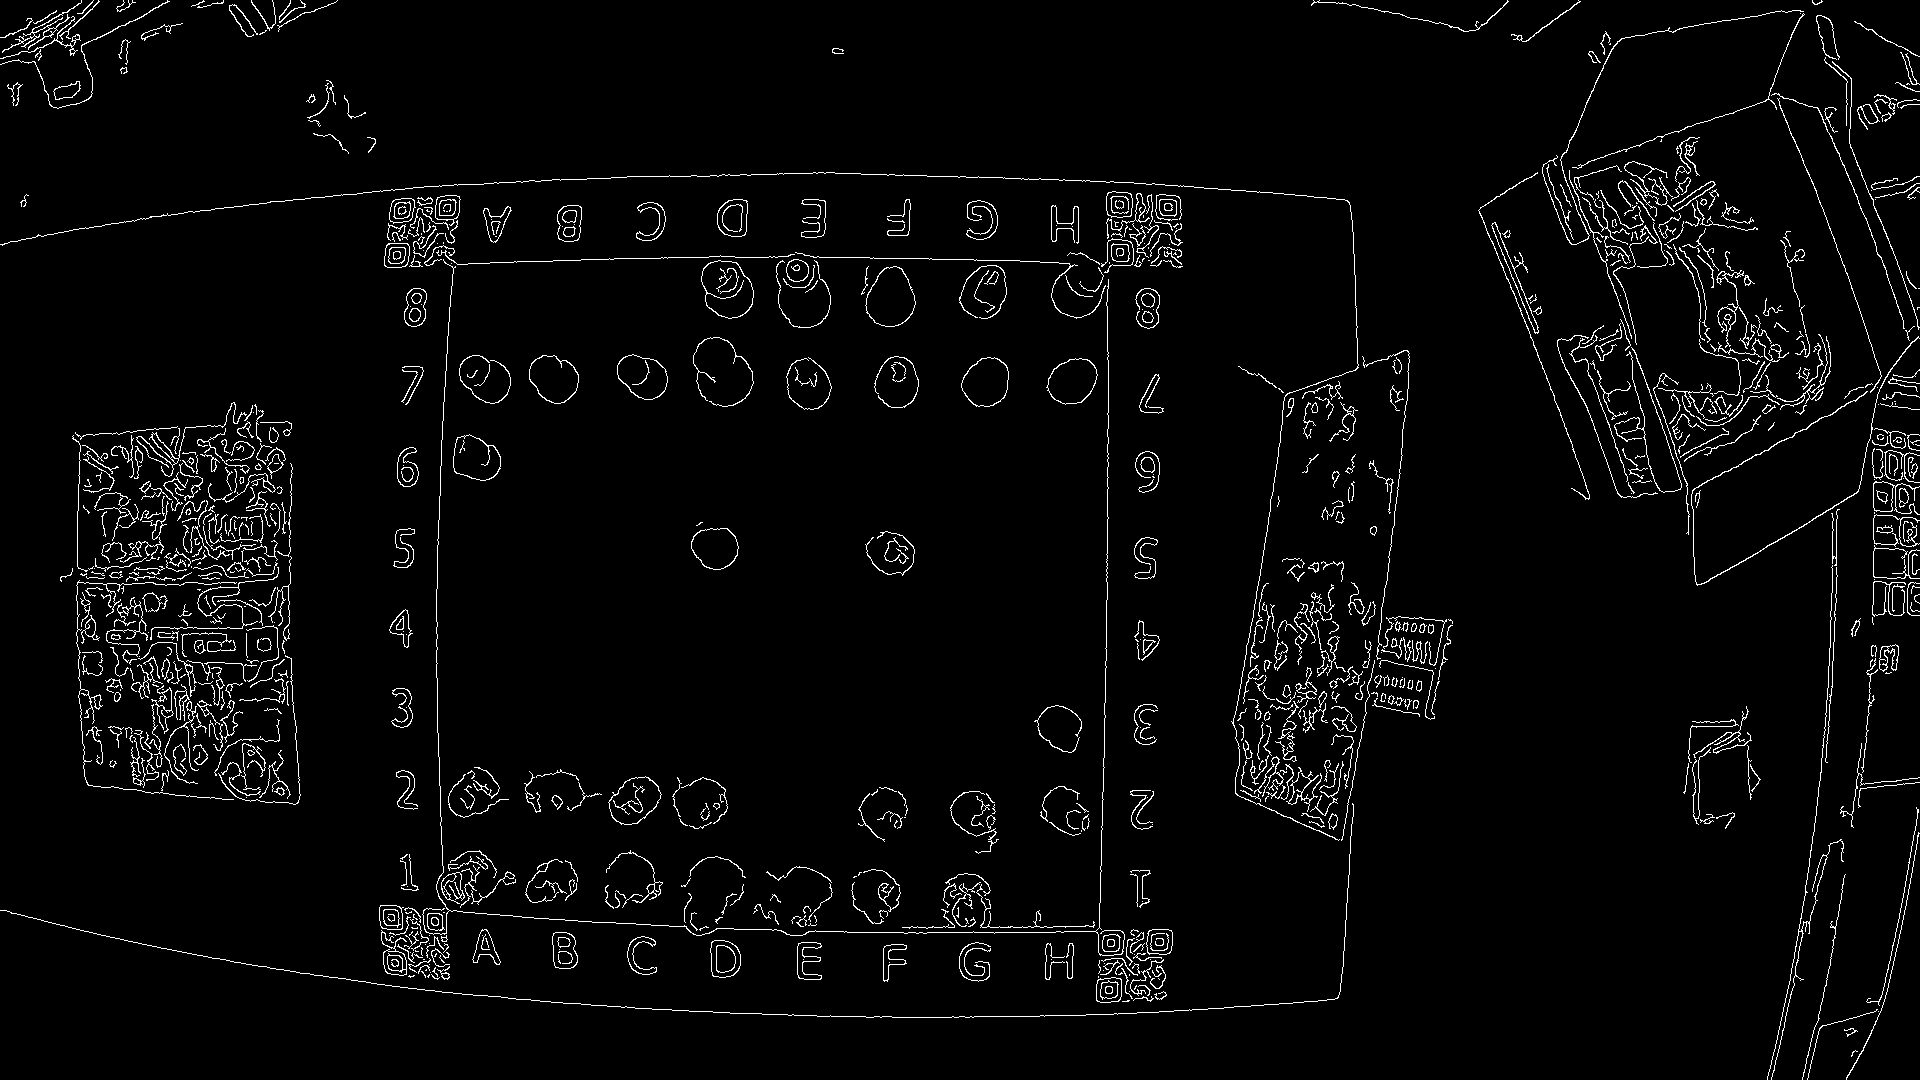
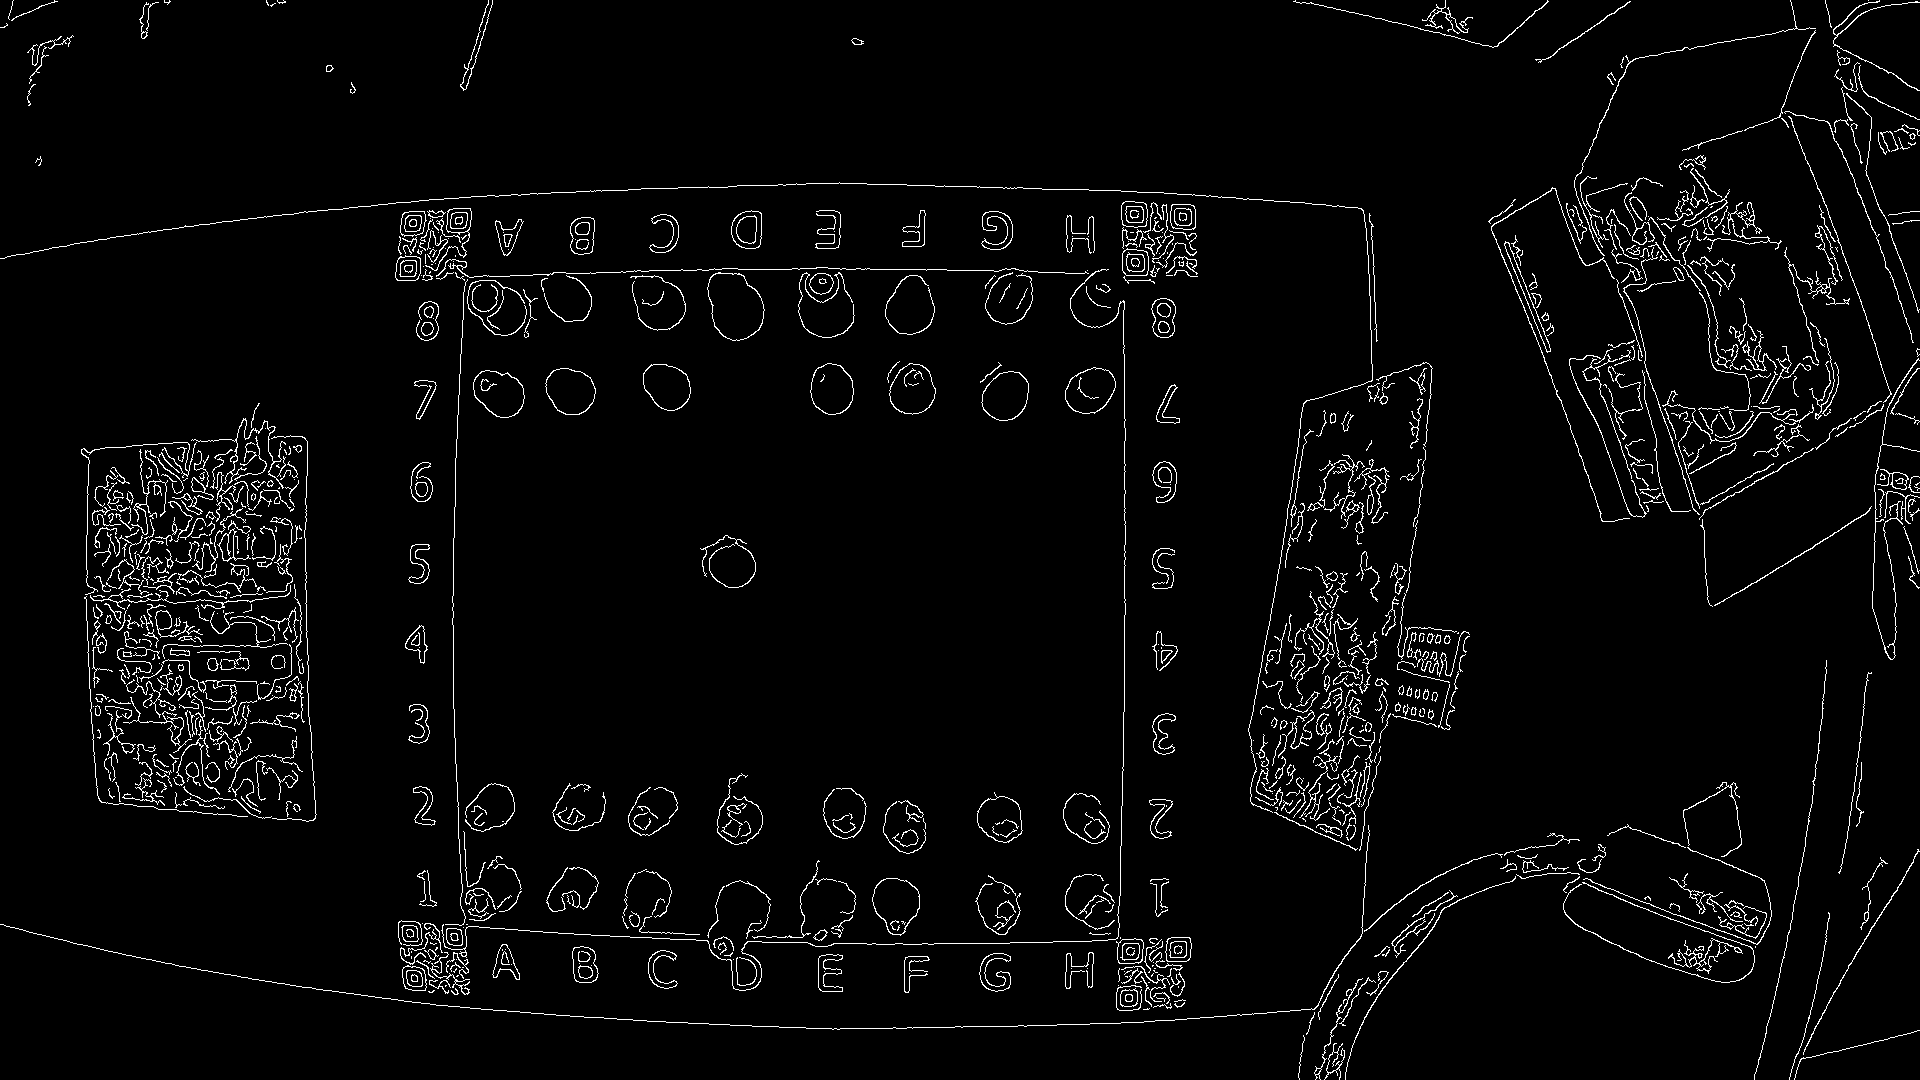
v1

diff --git a/chess/step/scripts/analyse.py b/chess/step/scripts/analyse.py
@@ -1,6 +1,7 @@
 import cv2
 import numpy as np
 from PIL import Image
+import copy
 
 class Analyse:
     def search_qr_code(temp):
@@ -207,7 +208,8 @@ class Analyse:
         # cv2.rectangle(test, (x, y), (x+50,y+50), (0,0,255), 2)
 
         # cv2.imwrite('test.png', test)
-        test_color = {'a8': 0, 'b8': 0, 'c8': 0, 'd8': 0, 'e8': 0, 'f8': 0, 'g8': 0, 'h8': 0, 'a7': 0, 'b7': 0, 'c7': 0, 'd7': 0, 'e7': 0, 'f7': 0, 'g7': 0, 'h7': 0, 'a6': 0, 'b6': 0, 'c6': 0, 'd6': 0, 'e6': 0, 'f6': 0, 'g6': 0, 'h6': 0, 'a5': 0, 'b5': 0, 'c5': 0, 'd5': 0, 'e5': 0, 'f5': 0, 'g5': 0, 'h5': 0, 'a4': 0, 'b4': 0, 'c4': 0, 'd4': 0, 'e4': 0, 'f4': 0, 'g4': 0, 'h4': 0, 'a3': 0, 'b3': 0, 'c3': 0, 'd3': 0, 'e3': 0, 'f3': 0, 'g3': 0, 'h3': 0, 'a2': 0, 'b2': 0, 'c2': 0, 'd2': 0, 'e2': 0, 'f2': 0, 'g2': 0, 'h2': 0, 'a1': 0, 'b1': 0, 'c1': 0, 'd1': 0, 'e1': 0, 'f1': 0, 'g1': 0, 'h1': 0}
+        test_color = copy.deepcopy(color)
+
         img_gray = cv2.cvtColor(img_np, cv2.COLOR_BGR2GRAY)  
         # ret, threshold = cv2.threshold(img_gray, 99, 255, cv2.THRESH_BINARY)
         # inverted = cv2.bitwise_not(threshold)
@@ -218,6 +220,7 @@ class Analyse:
         img = img.convert('RGB')    
         for key in kletki:
             sum_r, sum_g, sum_b = 0,0,0
+            total_brightness = 0
             for i in range(0,50,1):
                 for j in range(0,50,1):
                     x, y = kletki[key]
@@ -225,31 +228,57 @@ class Analyse:
                     sum_r += r
                     sum_g += g
                     sum_b += b
-            test_color[key] = round((sum_r / 50) + (sum_g / 50) + (sum_b / 50))
-            
-            if round((sum_r / 50) + (sum_g / 50) + (sum_b / 50)) > 850:
+                    
+            if round((sum_r / 50) + (sum_g / 50) + (sum_b / 50)) > 750:
                 color[key] = 1
             else:
                 color[key] = 0
+            test_color[key] = round((sum_r / 50) + (sum_g / 50) + (sum_b / 50))
+        print('1')
         print(color)
-        print(test_color)
+
         return color
     
-    def step(color, moves):
-        
-        past_pole = {'a8': 2, 'b8': 2, 'c8': 2, 'd8': 2, 'e8': 2, 'f8': 2, 'g8': 2, 'h8': 2,
-                     'a7': 2, 'b7': 2, 'c7': 2, 'd7': 2, 'e7': 2, 'f7': 2, 'g7': 2, 'h7': 2,
-                     'a6': 2, 'b6': 2, 'c6': 2, 'd6': 2, 'e6': 2, 'f6': 2, 'g6': 2, 'h6': 2, 
-                     'a5': 2, 'b5': 2, 'c5': 2, 'd5': 2, 'e5': 2, 'f5': 2, 'g5': 2, 'h5': 2, 
-                     'a4': 2, 'b4': 2, 'c4': 2, 'd4': 2, 'e4': 2, 'f4': 2, 'g4': 2, 'h4': 2,
-                     'a3': 2, 'b3': 2, 'c3': 2, 'd3': 2, 'e3': 2, 'f3': 2, 'g3': 2, 'h3': 2,
-                     'a2': 2, 'b2': 2, 'c2': 2, 'd2': 2, 'e2': 2, 'f2': 2, 'g2': 2, 'h2': 2,
-                     'a1': 2, 'b1': 2, 'c1': 2, 'd1': 2, 'e1': 2, 'f1': 2, 'g1': 2, 'h1': 2}
+    def step(color, moves, location_figur, queue_step):   
 
+        # past_pole = {'a8': 2, 'b8': 2, 'c8': 2, 'd8': 2, 'e8': 2, 'f8': 2, 'g8': 2, 'h8': 2,
+        #              'a7': 2, 'b7': 2, 'c7': 2, 'd7': 2, 'e7': 2, 'f7': 2, 'g7': 2, 'h7': 2,
+        #              'a6': 2, 'b6': 2, 'c6': 2, 'd6': 2, 'e6': 2, 'f6': 2, 'g6': 2, 'h6': 2, 
+        #              'a5': 2, 'b5': 2, 'c5': 2, 'd5': 2, 'e5': 2, 'f5': 2, 'g5': 2, 'h5': 2, 
+        #              'a4': 2, 'b4': 2, 'c4': 2, 'd4': 2, 'e4': 2, 'f4': 2, 'g4': 2, 'h4': 2,
+        #              'a3': 2, 'b3': 2, 'c3': 2, 'd3': 2, 'e3': 2, 'f3': 2, 'g3': 2, 'h3': 2,
+        #              'a2': 2, 'b2': 2, 'c2': 2, 'd2': 2, 'e2': 2, 'f2': 2, 'g2': 2, 'h2': 2,
+        #              'a1': 2, 'b1': 2, 'c1': 2, 'd1': 2, 'e1': 2, 'f1': 2, 'g1': 2, 'h1': 2}
+        past_pole = copy.deepcopy(color)
+        tmp_location_figur = copy.deepcopy(location_figur)
+        print('tmp_location_figur')
+        print(tmp_location_figur)
+        if int(queue_step) % 2 != 0: #ход белых
+            for key in tmp_location_figur.keys():
+                if tmp_location_figur[key].startswith("W") or tmp_location_figur[key] == '':
+                    continue
+                else:
+                    color[key] = 0
+                    tmp_location_figur[key] = ''
+        else:
+            for key in tmp_location_figur.keys():
+                if tmp_location_figur[key].startswith("B") or tmp_location_figur[key] == '':
+                    continue
+                else:
+                    color[key] = 0
+                    tmp_location_figur[key] = ''
+        print('color')  
+        print(color)
+        print('tmp_location_figur')
+        print(tmp_location_figur)
         keys = list(past_pole.keys())  
         for i in range(len(keys)):
-            past_pole[keys[i]] = int(moves[i])
-
+            if tmp_location_figur[keys[i]] == '':
+                past_pole[keys[i]] = 0
+                continue
+            else:
+                # past_pole[keys[i]] = int(moves[i])
+                past_pole[keys[i]] = 1
         past_cell, new_cell = '', ''
         step = ''
         for key in color:
@@ -259,16 +288,21 @@ class Analyse:
                 else:
                     past_cell = key
         step = past_cell + new_cell
+        print(step)
+        tmp_location_figur[new_cell] = tmp_location_figur[past_cell]
+        tmp_location_figur[past_cell] = ''
+        print('tmp_location_figur')
+        print(tmp_location_figur)
+        for key in tmp_location_figur.keys():
+            if (tmp_location_figur[key].startswith("B") and (location_figur[key] == '' or location_figur[key].startswith("W"))) or (tmp_location_figur[key].startswith("W") and (location_figur[key] == '' or location_figur[key].startswith("B"))):
+                location_figur[key] = tmp_location_figur[key]
+            elif key == past_cell:
+                if (tmp_location_figur[key].startswith('') and (location_figur[key] == "B" or location_figur[key].startswith("W"))) or (tmp_location_figur[key].startswith('') and (location_figur[key] == "W" or location_figur[key].startswith("B"))):
+                    location_figur[key] = tmp_location_figur[key] 
+
+        step = past_cell + new_cell
         past_pole[new_cell] = 1
         past_pole[past_cell] = 0
         moves = ''.join(str(value) for value in past_pole.values())
-        letter = ['a','b','c','d','e','f','g','h']
-        chet = 0 
-        # for i in range(8,0, -1):
-        #     for j in letter:
-        #         mark = j + str(i)
-        #         print(mark, moves[chet])
-        #         chet += 1
-        print(step)
         
-        return moves, step
+        return moves, step, location_figur

diff --git a/chess/users/views.py b/chess/users/views.py
@@ -105,26 +105,38 @@ def LoginGame(request):
         curent_user = request.user.id
         if user1 != curent_user and user2 == None and user2 != curent_user:
             a = True
-            while(a):
-                temp = []
-                while len(temp) < 2:  
-                    print('1')
-                    img = camera.get_img("10.2.31.25","admin","Skills39!", True)
-                    tmp = bytes()
-                    for t in img:
-                        tmp += t
-                    nparr = np.frombuffer(tmp, np.uint8)
-                    img_np = cv2.imdecode(nparr, cv2.IMREAD_COLOR)
-                    cv2.imwrite('tmp.png', img_np)
-                    img_np = cv2.imread('tmp.png', 1)
-                    temp = search.search(img_np) 
-                QRs = Analyse.search_qr_code(temp)
-                cords_ancle = Analyse.cords_ancle_board(QRs)
+            while True:
+                try:
+                    temp = []
+                    while len(temp) < 2:  
+                        print('1')
+                        img = camera.get_img("10.2.31.25","admin","Skills39!", True)
+                        tmp = bytes()
+                        for t in img:
+                            tmp += t
+                        nparr = np.frombuffer(tmp, np.uint8)
+                        img_np = cv2.imdecode(nparr, cv2.IMREAD_COLOR)
+                        cv2.imwrite('tmp.png', img_np)
+                        img_np = cv2.imread('tmp.png', 1)
+                        temp = search.search(img_np) 
+                    QRs = Analyse.search_qr_code(temp)
+                    cords_ancle = Analyse.cords_ancle_board(QRs)
+                    kletki, color, step_v, step_g = Analyse.search_cell(cords_ancle)
+                    break
+                except Exception as a:
+                     continue
 
-                if cords_ancle:
-                    a = False  
-            
+             
+            location_figur = {'a8': 'WR', 'b8': 'WH', 'c8': 'WB', 'd8': 'WQ', 'e8': 'WK', 'f8': 'WB', 'g8': 'WH', 'h8': 'WR',
+                            'a7': 'WP', 'b7': 'WP', 'c7': 'WP', 'd7': 'WP', 'e7': 'WP', 'f7': 'WP', 'g7': 'WP', 'h7': 'WP',
+                            'a6': '', 'b6': '', 'c6': '', 'd6': '', 'e6': '', 'f6': '', 'g6': '', 'h6': '', 
+                            'a5': '', 'b5': '', 'c5': '', 'd5': '', 'e5': '', 'f5': '', 'g5': '', 'h5': '',
+                            'a4': '', 'b4': '', 'c4': '', 'd4': '', 'e4': '', 'f4': '', 'g4': '', 'h4': '', 
+                            'a3': '', 'b3': '', 'c3': '', 'd3': '', 'e3': '', 'f3': '', 'g3': '', 'h3': '', 
+                            'a2': 'BP', 'b2': 'BP', 'c2': 'BP', 'd2': 'BP', 'e2': 'BP', 'f2': 'BP', 'g2': 'BP', 'h2': 'BP',  
+                            'a1': 'BR', 'b1': 'BH', 'c1': 'BB', 'd1': 'BQ', 'e1': 'BK', 'f1': 'BB', 'g1': 'BH', 'h1': 'BR'}
             request.session['cords_ancle'] = cords_ancle
+            request.session['location_figur'] = location_figur
             filt_record.user2_id = curent_user
             filt_record.save()
             name1 = CustomUser.objects.get(id=user1)

diff --git a/chess/step/views.py b/chess/step/views.py
@@ -44,12 +44,16 @@ def analyse(request):
     steps = Steps.objects.filter(pin_game=pin_game).order_by('-queue_step')
     y = steps.first()
     moves = y.moves
-    moves, step = Analyse.step(color, moves) # moves массив прошлого хода
+    queue_step = request.GET.get("variable")
+    location_figur = request.session.get('location_figur')
+    moves, step, location_figur = Analyse.step(color, moves, location_figur, queue_step) # moves массив прошлого хода
+    print('location figure')
+    print(location_figur)
+    request.session['location_figur'] = location_figur
     record = SessionConnection.objects.get(pin_game=pin_game)
     user_id_W = record.user1_id
     user_id_B = record.user2_id
     time = datetime.now()
-    queue_step = request.GET.get("variable")
 
 
 
